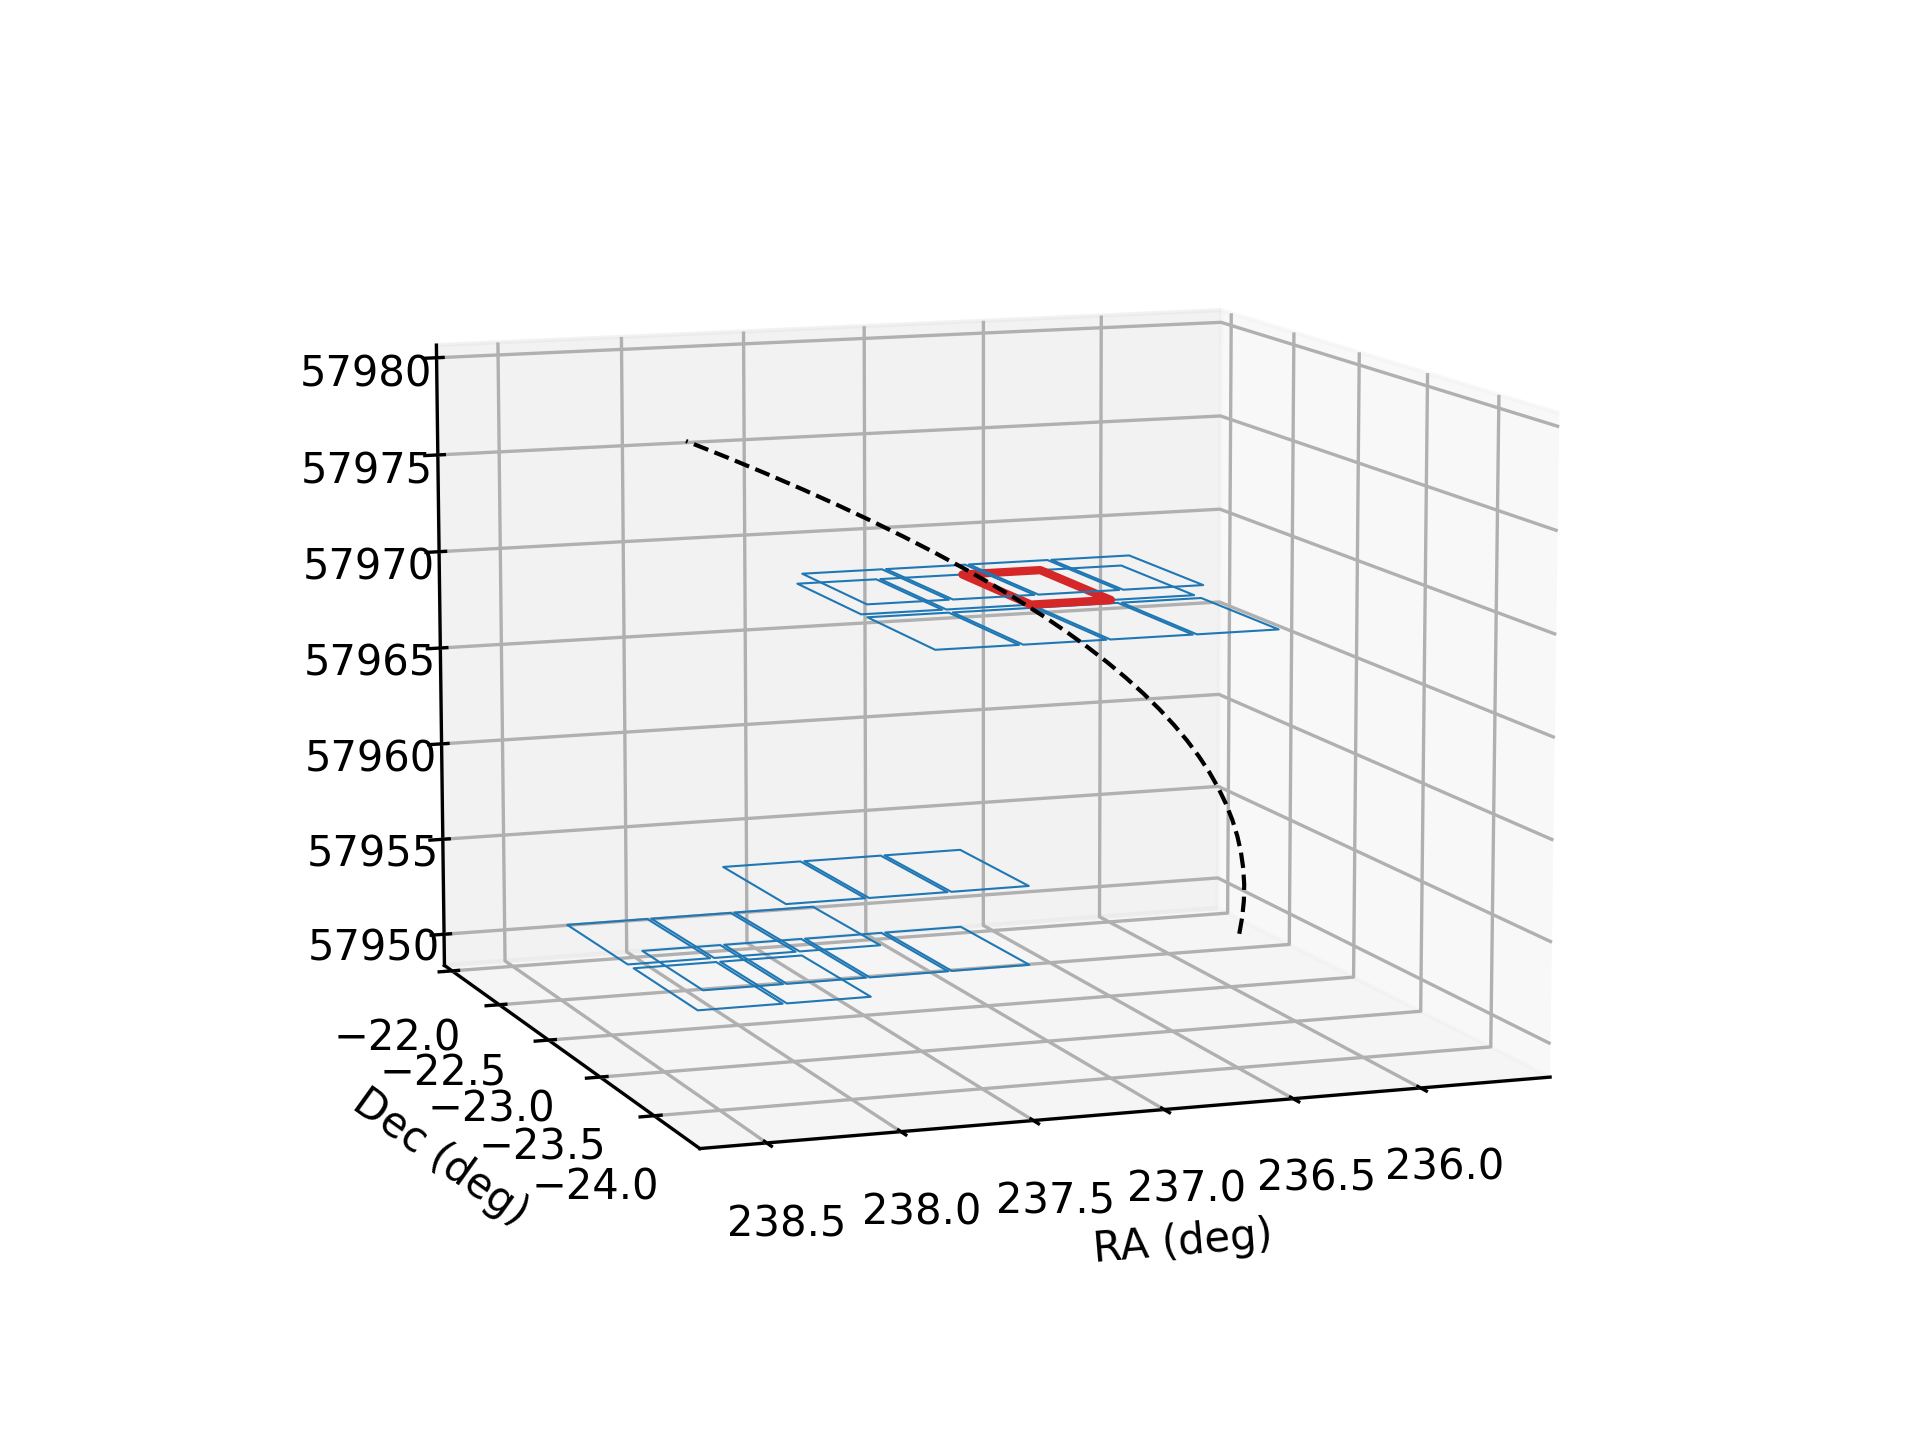
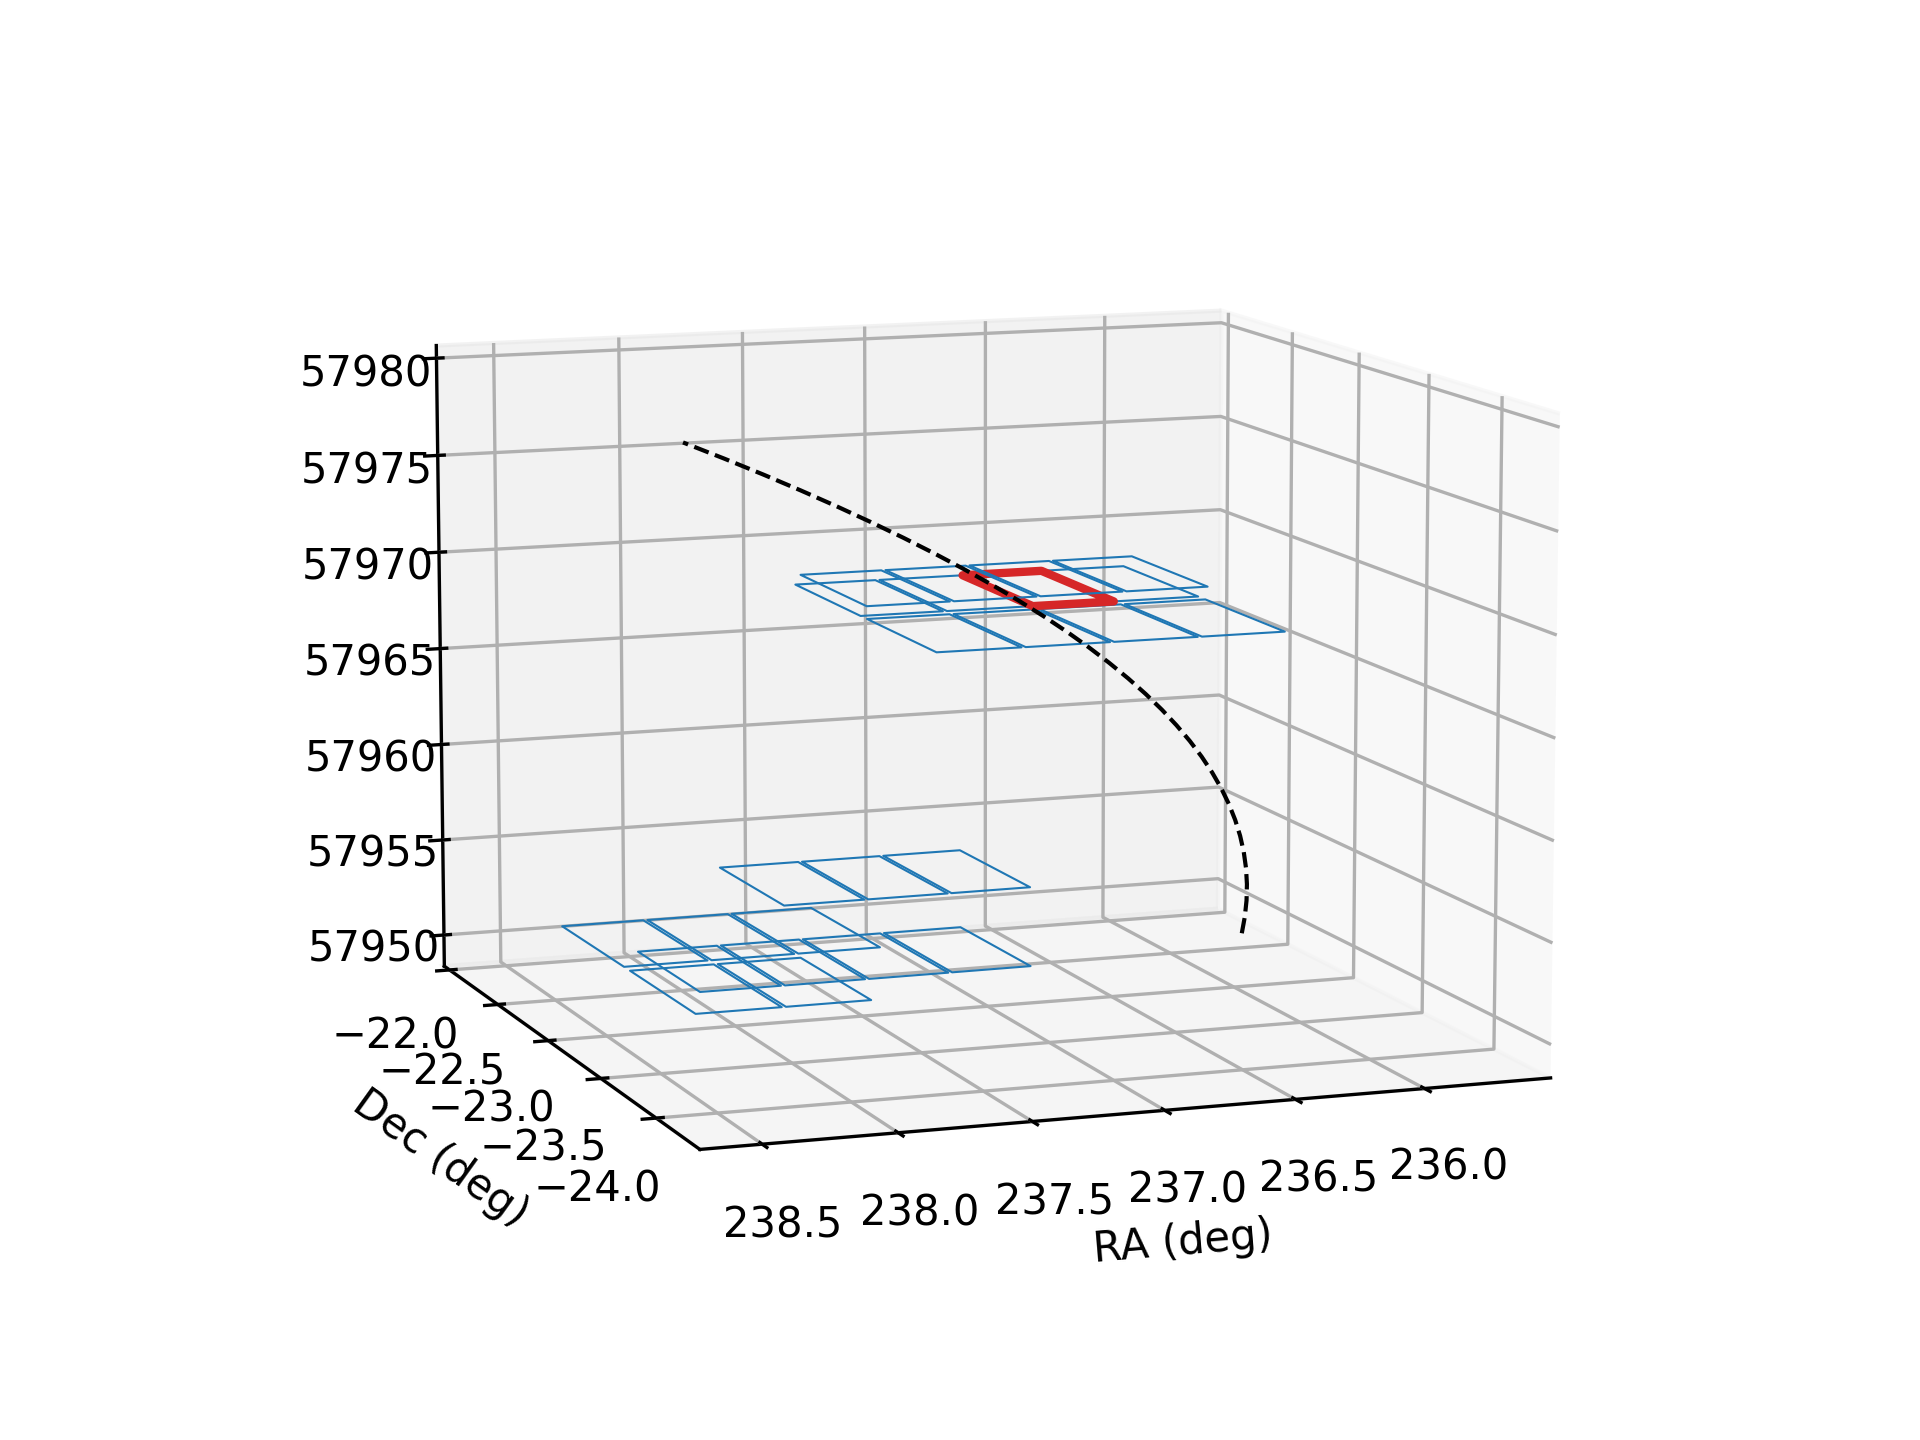
Add overview and update figures.

diff --git a/figures/query-cells.py b/figures/query-cells.py
@@ -296,4 +296,8 @@ plt.setp(ax, xlim=ax.get_xlim()[::-1], xlabel='RA (deg)', ylabel='Dec (deg)',
 ax.minorticks_on()
 ax.legend(handles=handles, loc='lower right')
 plt.tight_layout(pad=0.2)
+
+annotate(ax, dates[0], ra[0], dec[0])
+annotate(ax, dates[1], ra[-1], dec[-1])
+
 plt.savefig(f'query-cells-{file_suffix}.png')

diff --git a/README.md b/README.md
@@ -1,6 +1,17 @@
 # catch v1.0.0
 
-SBN astronomical survey data search tool.
+Planetary Data System Small Bodies Node (PDS-SBN) astronomical survey data search tool.
+
+## Overview
+
+`catch` finds observations of comets and asteroids in sky survey data.  The primary goal is to enable searches on PDS-SBN-archived datasets, but datasets archived elsewhere may be included.  It is built on the [`sbsearch`](https://github.com/Small-Bodies-Node/sbsearch) library and designed to support web-based searches via [`catch-apis`](https://github.com/Small-Bodies-Node/catch-apis).
+
+To illustrate the technique, an example search for comet 65P/Gunn in July/August 2017 is shown in Figure 1.  The ephemeris was transformed into a database query using the S2 library, which describes lines or areas in spherical coordinates with a nested grid of cells.  The ephemeris cells are compared to the `catch` database, which stores the cell identifiers for all images in the SkyMapper survey.  Observations with cells matching any of the ephemeris cells are considered as candidate observations of the comet.  Each candidate is checked in detail for the intersection of the ephemeris and observation field-of-view, including time.
+
+Figure 1.  Ephemeris (dashed line) and S2 query cells (thin solid lines) for comet 65P/Gunn over the time period 2017 Jul 15 to Aug 15.  The field-of-view for a SkyMapper Southern Survey image that matched the ephemeris query is shown (thick solid line).  Of all the cells queried, the shaded S2 cell matched the SkyMapper image.
+![S2 cell boundaries and comet 65P ephemeris](figures/query-cells-65p-20170715-20170815.png)
+
+
 
 ## Initial setup
 
